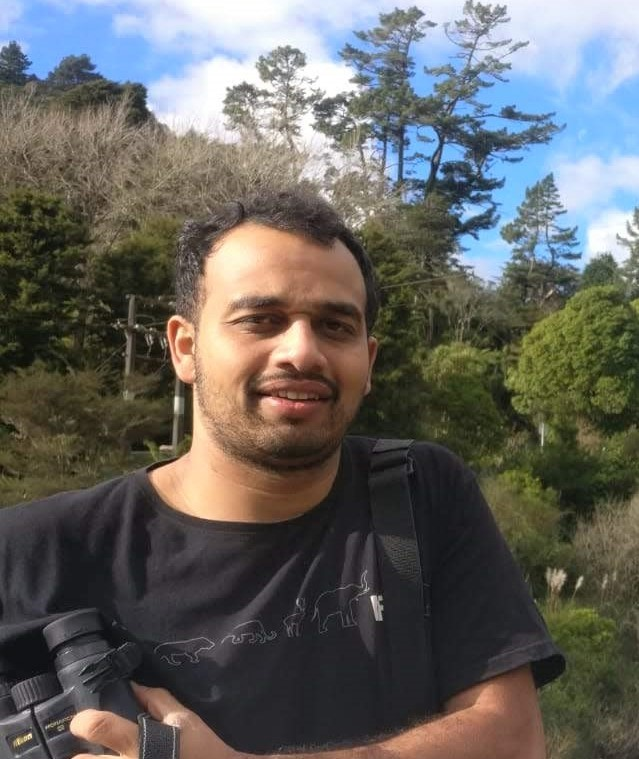
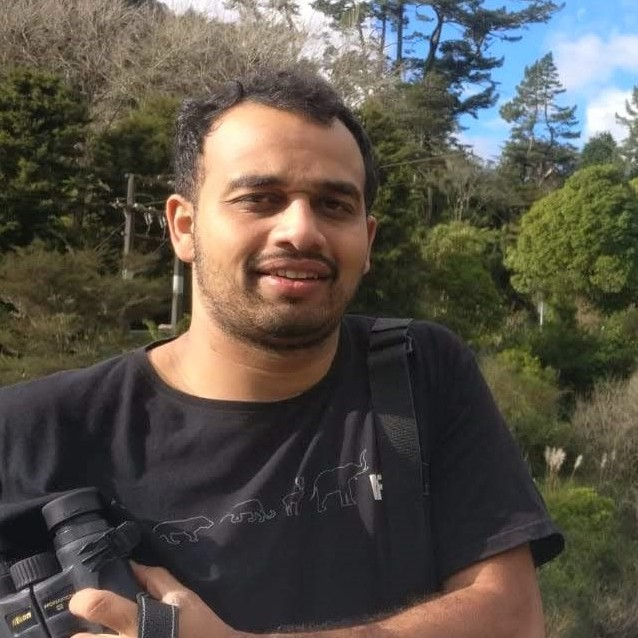
updating akshay's member profile

diff --git a/docs/index.html b/docs/index.html
@@ -2,7 +2,7 @@
 <html xmlns="http://www.w3.org/1999/xhtml" lang="en" xml:lang="en"><head>
 
 <meta charset="utf-8">
-<meta name="generator" content="quarto-1.6.40">
+<meta name="generator" content="quarto-1.6.42">
 
 <meta name="viewport" content="width=device-width, initial-scale=1.0, user-scalable=yes">
 
@@ -36,10 +36,10 @@ ul.task-list li input[type="checkbox"] {
 <script src="site_libs/quarto-html/tippy.umd.min.js"></script>
 <script src="site_libs/quarto-html/anchor.min.js"></script>
 <link href="site_libs/quarto-html/tippy.css" rel="stylesheet">
-<link href="site_libs/quarto-html/quarto-syntax-highlighting-549806ee2085284f45b00abea8c6df48.css" rel="stylesheet" id="quarto-text-highlighting-styles">
+<link href="site_libs/quarto-html/quarto-syntax-highlighting-2f5df379a58b258e96c21c0638c20c03.css" rel="stylesheet" id="quarto-text-highlighting-styles">
 <script src="site_libs/bootstrap/bootstrap.min.js"></script>
 <link href="site_libs/bootstrap/bootstrap-icons.css" rel="stylesheet">
-<link href="site_libs/bootstrap/bootstrap-8e412f49538be13813768f632c106bdd.min.css" rel="stylesheet" append-hash="true" id="quarto-bootstrap" data-mode="light">
+<link href="site_libs/bootstrap/bootstrap-1f5eb30e5bcc030690dcd9c56e317bd5.min.css" rel="stylesheet" append-hash="true" id="quarto-bootstrap" data-mode="light">
 <script src="site_libs/quarto-contrib/iconify-2.1.0/iconify-icon.min.js"></script>
 <script id="quarto-search-options" type="application/json">{
   "location": "navbar",
@@ -247,10 +247,10 @@ window.Quarto = {
 
 <div class="quarto-listing quarto-listing-container-grid" id="listing-listing">
 <div class="list grid quarto-listing-cols-4">
-<div class="g-col-1" data-index="0" data-categories="cGFzdCUyMHdvcmtpbmclMjBncm91cCUyQ3Bvc3Rkb2M=" data-listing-file-modified-sort="1744034194709" data-listing-reading-time-sort="2" data-listing-word-count-sort="219">
+<div class="g-col-1" data-index="0" data-categories="cGFzdCUyMHdvcmtpbmclMjBncm91cCUyQ3Bvc3Rkb2M=" data-listing-file-modified-sort="1744123219440" data-listing-reading-time-sort="2" data-listing-word-count-sort="219">
 <a href="./files/Akshay_Surendra.html" class="quarto-grid-link">
 <div class="quarto-grid-item card h-100 card-left">
-<p class="card-img-top"><img src="files\member_profiles\M5.jpg" alt="Akshay Surendra" style="height: 160px;"  class="thumbnail-image card-img"/></p>
+<p class="card-img-top"><img src="files/`r paste0("member_profiles/", memberid,".jpg")`" alt="r paste0(member$first.name, ” “, member$last.name)" style="height: 160px;"  class="thumbnail-image card-img"/></p>
 <div class="card-body post-contents">
 <h5 class="no-anchor card-title listing-title">
 Akshay Surendra
@@ -267,10 +267,10 @@ postdoc
 </div>
 </a>
 </div>
-<div class="g-col-1" data-index="1" data-categories="Y3VycmVudCUyMHdvcmtpbmclMjBncm91cCUyQ3Bvc3Rkb2M=" data-listing-file-modified-sort="1743780101951" data-listing-reading-time-sort="2" data-listing-word-count-sort="243">
+<div class="g-col-1" data-index="1" data-categories="Y3VycmVudCUyMHdvcmtpbmclMjBncm91cCUyQ3Bvc3Rkb2M=" data-listing-file-modified-sort="1743918057071" data-listing-reading-time-sort="2" data-listing-word-count-sort="243">
 <a href="./files/Krishna_Anujan.html" class="quarto-grid-link">
 <div class="quarto-grid-item card h-100 card-left">
-<p class="card-img-top"><img src="files\member_profiles\M4.jpg" alt="Krishna Anujan" style="height: 160px;"  class="thumbnail-image card-img"/></p>
+<p class="card-img-top"><img src="files/member_profiles/M4.jpg" alt="Krishna Anujan" style="height: 160px;"  class="thumbnail-image card-img"/></p>
 <div class="card-body post-contents">
 <h5 class="no-anchor card-title listing-title">
 Krishna Anujan
@@ -287,10 +287,10 @@ postdoc
 </div>
 </a>
 </div>
-<div class="g-col-1" data-index="2" data-categories="Y3VycmVudCUyMHdvcmtpbmclMjBncm91cCUyQ2ZhY3VsdHk=" data-listing-file-modified-sort="1744034194711" data-listing-reading-time-sort="2" data-listing-word-count-sort="259">
+<div class="g-col-1" data-index="2" data-categories="Y3VycmVudCUyMHdvcmtpbmclMjBncm91cCUyQ2ZhY3VsdHk=" data-listing-file-modified-sort="1743918332623" data-listing-reading-time-sort="2" data-listing-word-count-sort="259">
 <a href="./files/Mahesh_Sankaran.html" class="quarto-grid-link">
 <div class="quarto-grid-item card h-100 card-left">
-<p class="card-img-top"><img src="files\member_profiles\M1.jpg" alt="Mahesh Sankaran" style="height: 160px;"  class="thumbnail-image card-img"/></p>
+<p class="card-img-top"><img src="files/member_profiles/M1.jpg" alt="Mahesh Sankaran" style="height: 160px;"  class="thumbnail-image card-img"/></p>
 <div class="card-body post-contents">
 <h5 class="no-anchor card-title listing-title">
 Mahesh Sankaran
@@ -307,10 +307,10 @@ faculty
 </div>
 </a>
 </div>
-<div class="g-col-1" data-index="3" data-categories="Y3VycmVudCUyMHdvcmtpbmclMjBncm91cCUyQ3Bvc3Rkb2M=" data-listing-file-modified-sort="1743779667126" data-listing-reading-time-sort="2" data-listing-word-count-sort="260">
+<div class="g-col-1" data-index="3" data-categories="Y3VycmVudCUyMHdvcmtpbmclMjBncm91cCUyQ3Bvc3Rkb2M=" data-listing-file-modified-sort="1743918057074" data-listing-reading-time-sort="2" data-listing-word-count-sort="260">
 <a href="./files/Neha_Mohanbabu.html" class="quarto-grid-link">
 <div class="quarto-grid-item card h-100 card-left">
-<p class="card-img-top"><img src="files\member_profiles\M2.jpg" alt="Neha Mohanbabu" style="height: 160px;"  class="thumbnail-image card-img"/></p>
+<p class="card-img-top"><img src="files/member_profiles/M2.jpg" alt="Neha Mohanbabu" style="height: 160px;"  class="thumbnail-image card-img"/></p>
 <div class="card-body post-contents">
 <h5 class="no-anchor card-title listing-title">
 Neha Mohanbabu
@@ -327,10 +327,10 @@ postdoc
 </div>
 </a>
 </div>
-<div class="g-col-1" data-index="4" data-categories="Y3VycmVudCUyMHdvcmtpbmclMjBncm91cCUyQ1BoRCUyMHN0dWRlbnQ=" data-listing-file-modified-sort="1744034194715" data-listing-reading-time-sort="2" data-listing-word-count-sort="281">
+<div class="g-col-1" data-index="4" data-categories="Y3VycmVudCUyMHdvcmtpbmclMjBncm91cCUyQ1BoRCUyMHN0dWRlbnQ=" data-listing-file-modified-sort="1744001099596" data-listing-reading-time-sort="2" data-listing-word-count-sort="281">
 <a href="./files/Tanaya_Nair.html" class="quarto-grid-link">
 <div class="quarto-grid-item card h-100 card-left">
-<p class="card-img-top"><img src="files\member_profiles\M3.jpg" alt="Tanaya Nair" style="height: 160px;"  class="thumbnail-image card-img"/></p>
+<p class="card-img-top"><img src="files/member_profiles/M3.jpg" alt="Tanaya Nair" style="height: 160px;"  class="thumbnail-image card-img"/></p>
 <div class="card-body post-contents">
 <h5 class="no-anchor card-title listing-title">
 Tanaya Nair

diff --git a/docs/files/Tanaya_Nair.html b/docs/files/Tanaya_Nair.html
@@ -2,7 +2,7 @@
 <html xmlns="http://www.w3.org/1999/xhtml" lang="en" xml:lang="en"><head>
 
 <meta charset="utf-8">
-<meta name="generator" content="quarto-1.6.40">
+<meta name="generator" content="quarto-1.6.42">
 
 <meta name="viewport" content="width=device-width, initial-scale=1.0, user-scalable=yes">
 
@@ -34,10 +34,10 @@ ul.task-list li input[type="checkbox"] {
 <script src="../site_libs/quarto-html/tippy.umd.min.js"></script>
 <script src="../site_libs/quarto-html/anchor.min.js"></script>
 <link href="../site_libs/quarto-html/tippy.css" rel="stylesheet">
-<link href="../site_libs/quarto-html/quarto-syntax-highlighting-549806ee2085284f45b00abea8c6df48.css" rel="stylesheet" id="quarto-text-highlighting-styles">
+<link href="../site_libs/quarto-html/quarto-syntax-highlighting-2f5df379a58b258e96c21c0638c20c03.css" rel="stylesheet" id="quarto-text-highlighting-styles">
 <script src="../site_libs/bootstrap/bootstrap.min.js"></script>
 <link href="../site_libs/bootstrap/bootstrap-icons.css" rel="stylesheet">
-<link href="../site_libs/bootstrap/bootstrap-8e412f49538be13813768f632c106bdd.min.css" rel="stylesheet" append-hash="true" id="quarto-bootstrap" data-mode="light">
+<link href="../site_libs/bootstrap/bootstrap-1f5eb30e5bcc030690dcd9c56e317bd5.min.css" rel="stylesheet" append-hash="true" id="quarto-bootstrap" data-mode="light">
 <script src="../site_libs/quarto-contrib/iconify-2.1.0/iconify-icon.min.js"></script>
 <script id="quarto-search-options" type="application/json">{
   "location": "navbar",
@@ -176,7 +176,7 @@ ul.task-list li input[type="checkbox"] {
 Email: <a href="mailto:tanaya.nair@ouce.ox.ac.uk">tanaya.nair@ouce.ox.ac.uk</a></p>
 <p>Tanaya Nair (she/her) is a scholar at the Oxford India Centre for Sustainable Development and is reading a DPhil in the School of Geography and the Environment at University of Oxford. Her project is on measuring nutrient flows in tropical forests and savannas in Africa and Asia. Besides this, she is actively researching and workshopping how art and science can come together through participatory interventions to roll out research more meaningfully and urgently in the world.</p>
 <p><em>Keywords:</em> nutrient cycling, tropical ecology, macroecology, nature recovery, microclimate modelling</p>
-<p><em>Study sites:</em> Angolan Miombos, Western Ghats</p>
+<p><em>Study sites:</em> Western Ghats</p>
 <p><a href="https://scholar.google.com/citations?hl=en&amp;view_op=list_works&amp;gmla=ANZ5fUNmiWSTN3VthLy3VGUUSlsWTt-RS6Z-QiYE4EVwUV9d5PsoJghlay7Mhy4E6Km1xV6Nc1vRxnxBNE0kfA&amp;user=iBw_0T0AAAAJ" class="btn btn-outline-primary"><iconify-icon role="img" inline="" icon="academicons:google-scholar-square" style="font-size: 1.1em;" aria-label="Icon google-scholar-square from academicons Iconify.design set." title="Publications"></iconify-icon> Publications</a> <a href="https://orcid.org/0000-0003-2622-8612" class="btn btn-outline-primary"><iconify-icon role="img" inline="" icon="simple-icons:orcid" style="font-size: 1.1em;" aria-label="Icon orcid from simple-icons Iconify.design set." title="ORCiD"></iconify-icon> ORCiD</a> <a href="https://www.researchgate.net/profile/Tanaya-Nair" class="btn btn-outline-primary"><iconify-icon role="img" inline="" icon="academicons:researchgate" style="font-size: 1.1em;" aria-label="Icon researchgate from academicons Iconify.design set." title="ResearchGate"></iconify-icon> ResearchGate</a> <a href="https://www.geog.ox.ac.uk/graduate/research/tnair.html" class="btn btn-outline-primary"><iconify-icon role="img" inline="" icon="mdi:web" style="font-size: 1.1em;" aria-label="Icon web from mdi Iconify.design set." title="Website"></iconify-icon> Website</a></p>
 </div>
 </div>

diff --git a/docs/files/Akshay_Surendra.html b/docs/files/Akshay_Surendra.html
@@ -2,7 +2,7 @@
 <html xmlns="http://www.w3.org/1999/xhtml" lang="en" xml:lang="en"><head>
 
 <meta charset="utf-8">
-<meta name="generator" content="quarto-1.6.40">
+<meta name="generator" content="quarto-1.6.42">
 
 <meta name="viewport" content="width=device-width, initial-scale=1.0, user-scalable=yes">
 
@@ -34,10 +34,10 @@ ul.task-list li input[type="checkbox"] {
 <script src="../site_libs/quarto-html/tippy.umd.min.js"></script>
 <script src="../site_libs/quarto-html/anchor.min.js"></script>
 <link href="../site_libs/quarto-html/tippy.css" rel="stylesheet">
-<link href="../site_libs/quarto-html/quarto-syntax-highlighting-549806ee2085284f45b00abea8c6df48.css" rel="stylesheet" id="quarto-text-highlighting-styles">
+<link href="../site_libs/quarto-html/quarto-syntax-highlighting-2f5df379a58b258e96c21c0638c20c03.css" rel="stylesheet" id="quarto-text-highlighting-styles">
 <script src="../site_libs/bootstrap/bootstrap.min.js"></script>
 <link href="../site_libs/bootstrap/bootstrap-icons.css" rel="stylesheet">
-<link href="../site_libs/bootstrap/bootstrap-8e412f49538be13813768f632c106bdd.min.css" rel="stylesheet" append-hash="true" id="quarto-bootstrap" data-mode="light">
+<link href="../site_libs/bootstrap/bootstrap-1f5eb30e5bcc030690dcd9c56e317bd5.min.css" rel="stylesheet" append-hash="true" id="quarto-bootstrap" data-mode="light">
 <script src="../site_libs/quarto-contrib/iconify-2.1.0/iconify-icon.min.js"></script>
 <script id="quarto-search-options" type="application/json">{
   "location": "navbar",
@@ -169,11 +169,11 @@ ul.task-list li input[type="checkbox"] {
 
 <div class="columns">
 <div class="column" style="padding-right: 30px;">
-<p><img src="member_profiles/M5.jpg" class="circular-photo img-fluid" alt="Akshay Surendra"> <br> <!-- [ testmember@fakeuniversity.edu](mailto:testmember@fakeuniversity.edu){.btn .btn-outline-primary}  --></p>
+<p><img src="`r paste0(&quot;member_profiles/&quot;, memberid,&quot;.jpg&quot;)`" class="circular-photo img-fluid" alt="r paste0(member$first.name, ” “, member$last.name)"> <br> <!-- [ testmember@fakeuniversity.edu](mailto:testmember@fakeuniversity.edu){.btn .btn-outline-primary}  --></p>
 </div><div class="column">
 <p><strong>Independent researcher</strong><br>
-****<br>
-Email: <a href="mailto:akshaysurendra1@gmail.com">akshaysurendra1@gmail.com</a></p>
+</p>
+<p>Email: <a href="mailto:%60r%20member$email%60">akshaysurendra1@gmail.com</a></p>
 <p>Akshay Surendra is a community ecologist interested in forests and birds, ecological restoration and conservation science.</p>
 <p><em>Keywords:</em> community ecology, plant soil interactions, trees, birds, land use change</p>
 <p><a href="https://scholar.google.com/citations?user=3OJsX74AAAAJ&amp;hl=en" class="btn btn-outline-primary"><iconify-icon role="img" inline="" icon="academicons:google-scholar-square" style="font-size: 1.1em;" aria-label="Icon google-scholar-square from academicons Iconify.design set." title="Publications"></iconify-icon> Publications</a> <a href="https://www.researchgate.net/profile/Akshay-Surendra" class="btn btn-outline-primary"><iconify-icon role="img" inline="" icon="academicons:researchgate" style="font-size: 1.1em;" aria-label="Icon researchgate from academicons Iconify.design set." title="ResearchGate"></iconify-icon> ResearchGate</a> <a href="akshaysurendra.wordpress.com" class="btn btn-outline-primary"><iconify-icon role="img" inline="" icon="mdi:web" style="font-size: 1.1em;" aria-label="Icon web from mdi Iconify.design set." title="Website"></iconify-icon> Website</a></p>
